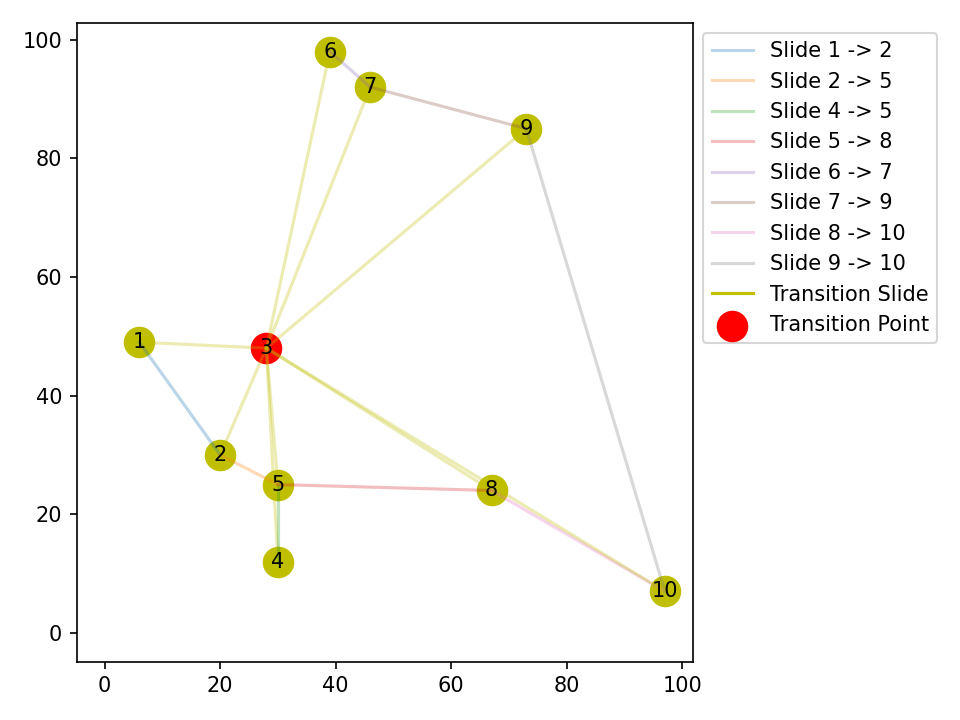
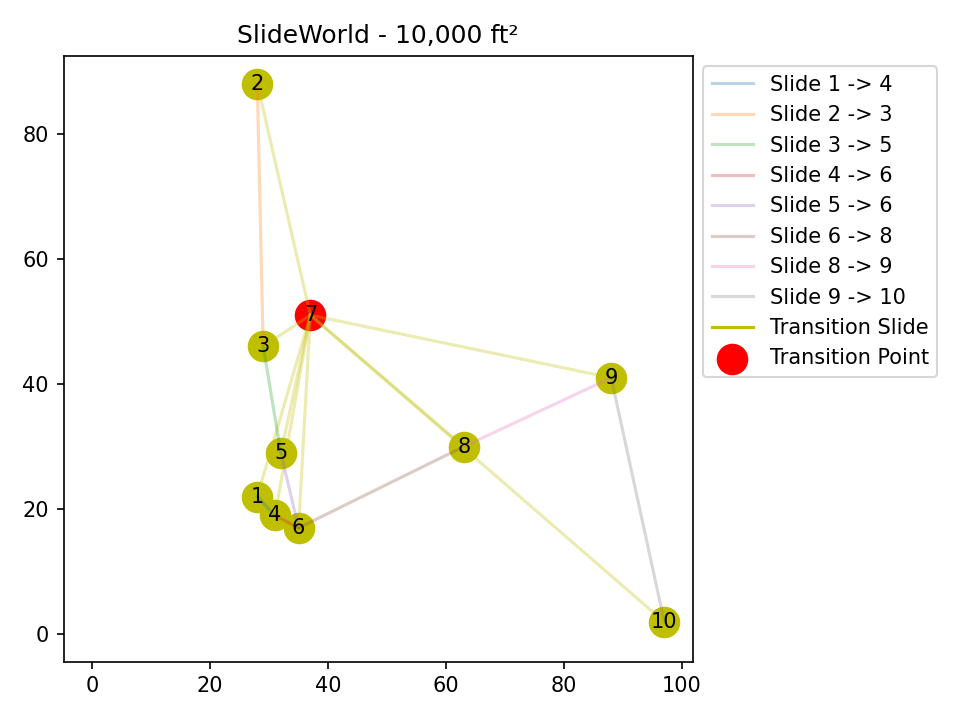
hw5

diff --git a/Homework5/hw5_exercise1.py b/Homework5/hw5_exercise1.py
@@ -24,6 +24,17 @@ add O(n) additional slides so that if i is in the first half and j is in the sec
 get from i to j using only two slides.
 (c) Using part (b), write a divide-and-conquer algorithm that takes as input
 the number of landings n and outputs the list of all the slides used by your attraction.
+
+>> python hw5_exercise1.py
+
+Transition Slide: 5
+Direct Slides: [Slide 1 -> 2, Slide 2 -> 3, Slide 3 -> 7, Slide 4 -> 6, Slide 5 -> 5, Slide 6 -> 8, Slide 7 -> 10, Slide 8 -> 10, Slide 9 -> 10, Slide 10 -> 10]
+
+>> python hw5_exercise1.py 5
+
+Transition Slide: 3
+Direct Slides: [Slide 1 -> 4, Slide 2 -> 5, Slide 3 -> 3, Slide 4 -> 5, Slide 5 -> 5]
+
 '''
 
 from math import sqrt
@@ -111,7 +122,7 @@ def main(argv):
     sw = SlideWorld()
     if len(argv) > 1:
         sw.maxSlides = int(argv[1])
-    if len(argv) > 1:
+    if len(argv) > 2:
         sw.maxSquareFeet = int(argv[2])
 
     sw.design()
@@ -120,6 +131,7 @@ def main(argv):
     plt.plot(0, 0, color=sw.transitionLineColor, label='Transition Slide') #legend item
     plt.scatter(sw.transitionSlide.x, sw.transitionSlide.y, s=200, color=sw.transitionSlideColor, label='Transition Point')
 
+    plt.title('SlideWorld - {:,} ft²'.format(sw.maxSquareFeet**2))
     plt.legend(bbox_to_anchor=(1, 1), loc='upper left')
     plt.tight_layout()
     plt.savefig('slide_world.png', dpi=150)
